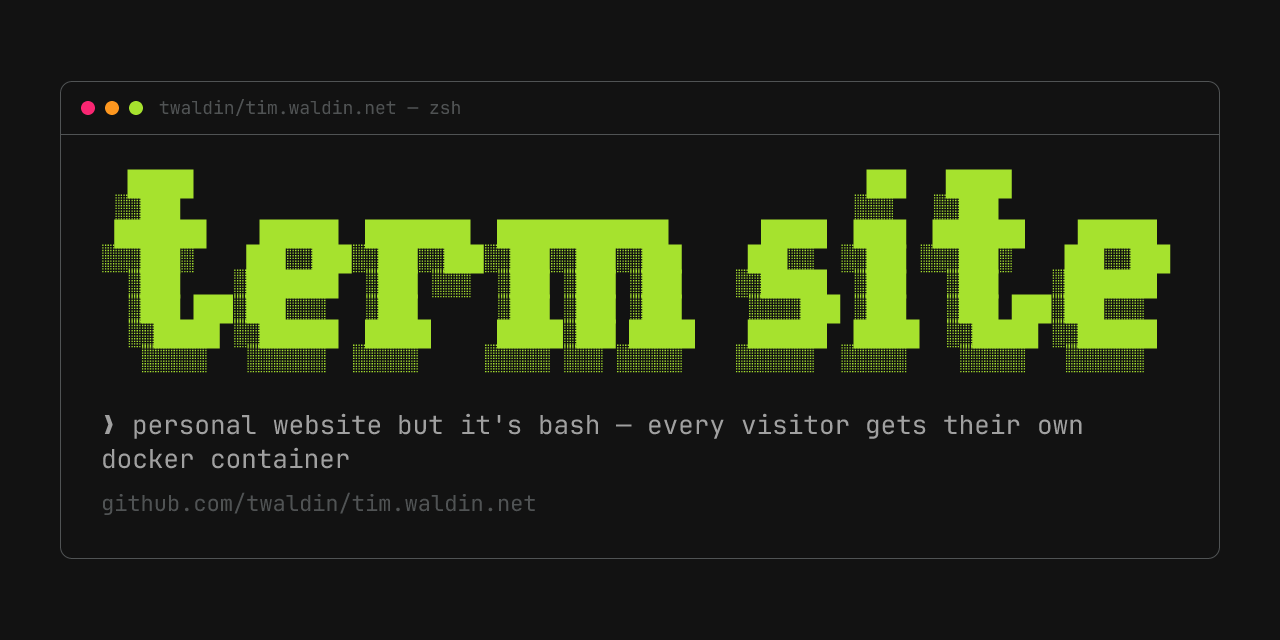
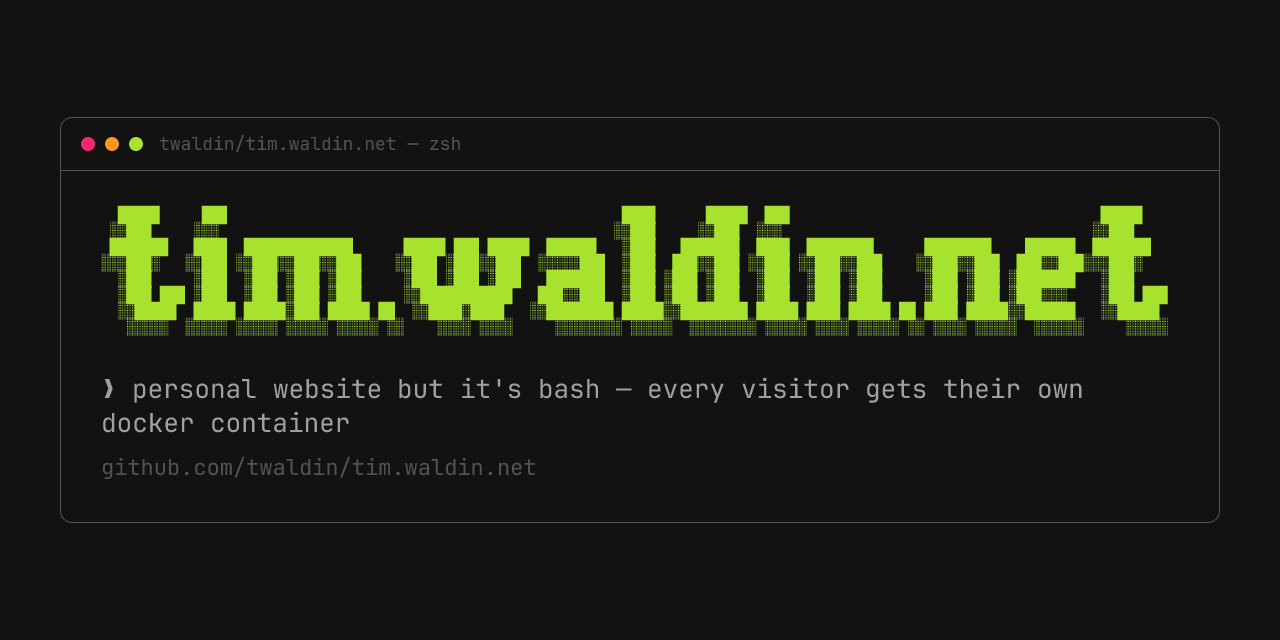
feat(portfolio): add easl and rename the site project (#84)
* feat(portfolio): add easl and rename the site project

* fix(container): retain easl source history for offline nvim

* fix(container): batch missing source blobs and fail closed

diff --git a/frontend/src/lib/__tests__/routes.test.ts b/frontend/src/lib/__tests__/routes.test.ts
@@ -1,5 +1,5 @@
 import { describe, it, expect } from 'vitest';
-import { isValidPath, getPageMetadata } from '../routes';
+import { isValidPath, getPageMetadata, getOgImage } from '../routes';
 
 describe('isValidPath', () => {
   it('/ → true', () => expect(isValidPath('/')).toBe(true));
@@ -17,6 +17,15 @@ describe('isValidPath', () => {
   it('/projects/gepa-ts → true', () => expect(isValidPath('/projects/gepa-ts')).toBe(true));
   it('/also → true', () => expect(isValidPath('/also')).toBe(true));
   it('/projects/also → true', () => expect(isValidPath('/projects/also')).toBe(true));
+  it.each([
+    '/easl', '/t/easl', '/projects/easl',
+    '/tim.waldin.net', '/t/tim.waldin.net', '/projects/tim.waldin.net',
+  ])('%s accepts the project command', path => {
+    expect(isValidPath(path)).toBe(true);
+  });
+  it.each(['/term-site', '/t/term-site', '/projects/term-site'])('%s rejects the removed alias', path => {
+    expect(isValidPath(path)).toBe(false);
+  });
   it('/notacommand → false', () => expect(isValidPath('/notacommand')).toBe(false));
   it('/skyblock-qol → false (removed project)', () => expect(isValidPath('/skyblock-qol')).toBe(false));
   it('/projects/skyblock-qol → false (removed project)', () => expect(isValidPath('/projects/skyblock-qol')).toBe(false));
@@ -68,5 +77,25 @@ describe('getPageMetadata', () => {
   it('/flt returns project metadata', () => {
     const m = getPageMetadata('/flt');
     expect(m.title).toBe('flt — twaldin');
+  });
+});
+
+describe('project metadata and share cards', () => {
+  it.each(['easl', 'tim.waldin.net'])('%s uses its project title and card on every supported path', alias => {
+    for (const path of [`/${alias}`, `/t/${alias}`, `/projects/${alias}`]) {
+      expect(getPageMetadata(path)).toEqual({
+        title: `${alias} — twaldin`,
+        description: `Project: ${alias}.`,
+      });
+      expect(getOgImage(path)).toEqual({
+        url: `/repo-card/${alias}`, width: 1280, height: 640,
+      });
+    }
+  });
+
+  it.each(['/about', '/projects/also', '/projects/term-site'])('%s uses the root card', path => {
+    expect(getOgImage(path)).toEqual({
+      url: '/opengraph-image', width: 1200, height: 630,
+    });
   });
 });

diff --git a/frontend/src/lib/routes.ts b/frontend/src/lib/routes.ts
@@ -1,13 +1,13 @@
 export const KNOWN_COMMANDS = new Set([
   'welcome', 'about', 'contact', 'blog', 'projects', 'resume', 'help',
   'boot', 'theme', 'home',
-  'flt', 'agentelo', 'trade-up-bot', 'term-site',
+  'easl', 'flt', 'agentelo', 'trade-up-bot', 'tim.waldin.net',
   'stm32-games', 'dotfiles', 'hone', 'harness', 'studyspot',
   'tetrio-tui', 'deck', 'hone-a-drone', 'gepa-ts', 'also',
 ]);
 
 export const PROJECT_ALIASES = new Set([
-  'flt', 'agentelo', 'trade-up-bot', 'term-site',
+  'easl', 'flt', 'agentelo', 'trade-up-bot', 'tim.waldin.net',
   'stm32-games', 'dotfiles', 'hone', 'harness', 'studyspot',
   'tetrio-tui', 'deck', 'hone-a-drone', 'gepa-ts', 'also',
 ]);
@@ -46,8 +46,7 @@ export function getOgImage(pathname: string): { url: string; width: number; heig
   else if (p.startsWith('projects/')) p = p.slice('projects/'.length);
   const cmd = p.split('/')[0];
   if (PROJECT_ALIASES.has(cmd) && cmd !== 'also') {
-    const card = cmd === 'term-site' ? 'tim.waldin.net' : cmd;
-    return { url: `/repo-card/${card}`, width: 1280, height: 640 };
+    return { url: `/repo-card/${cmd}`, width: 1280, height: 640 };
   }
   return { url: '/opengraph-image', width: 1200, height: 630 };
 }

diff --git a/frontend/src/lib/websocket.ts b/frontend/src/lib/websocket.ts
@@ -5,8 +5,8 @@ import { io, Socket } from 'socket.io-client';
 // Legacy pretty URL: /projects/<alias> jumps straight into the project
 // (runs the alias command, which cd's + shows the project info page).
 const PROJECT_ALIASES = new Set([
-  'flt', 'agentelo', 'trade-up-bot',
-  'term-site', 'stm32-games', 'dotfiles', 'hone', 'harness', 'studyspot',
+  'easl', 'flt', 'agentelo', 'trade-up-bot',
+  'tim.waldin.net', 'stm32-games', 'dotfiles', 'hone', 'harness', 'studyspot',
   'tetrio-tui', 'deck', 'hone-a-drone', 'gepa-ts', 'also',
 ]);
 
@@ -20,11 +20,12 @@ const NAVIGATION_COMMANDS: Record<string, true> = {
   contact: true,
   about: true,
   gui: true,
+  easl: true,
   flt: true,
   agentelo: true,
   hone: true,
   harness: true,
-  'term-site': true,
+  'tim.waldin.net': true,
   'trade-up-bot': true,
   studyspot: true,
   'stm32-games': true,

diff --git a/frontend/src/lib/__tests__/websocket-allowlist.test.ts b/frontend/src/lib/__tests__/websocket-allowlist.test.ts
@@ -56,6 +56,23 @@ describe('URL command allowlist', () => {
     expectInitCommand('about');
   });
 
+  it.each([
+    ['/easl', 'easl'],
+    ['/t/easl', 'easl'],
+    ['/projects/easl', 'easl'],
+    ['/tim.waldin.net', 'tim.waldin.net'],
+    ['/t/tim.waldin.net', 'tim.waldin.net'],
+    ['/projects/tim.waldin.net', 'tim.waldin.net'],
+  ])('launches %s through the handshake', (path, command) => {
+    connectFrom(path);
+    expectInitCommand(command);
+  });
+
+  it.each(['/term-site', '/t/term-site', '/projects/term-site'])('rejects the removed command at %s', path => {
+    connectFrom(path);
+    expectInitCommand(undefined);
+  });
+
   it('rejects command-prefix bypasses of the old denylist', () => {
     connectFrom('/command%20rm%20-rf%20%2F');
     expectInitCommand(undefined);

diff --git a/backend/test/pageviews.test.js b/backend/test/pageviews.test.js
@@ -68,7 +68,7 @@ ok('repeat views increment the count', () => {
 });
 
 ok('encoded path chars (%20, dots, dashes) are accepted', () => {
-  const res = beacon('/projects/term-site%20v2.0_beta', '203.0.113.1');
+  const res = beacon('/projects/tim.waldin.net%20v2.0_beta', '203.0.113.1');
   assert.strictEqual(res._statusCode, 204);
 });
 

diff --git a/frontend/next.config.ts b/frontend/next.config.ts
@@ -72,6 +72,11 @@ const nextConfig: NextConfig = {
         destination: "/resume.pdf",
         permanent: true,
       },
+      {
+        source: "/projects/term-site",
+        destination: "/projects/tim.waldin.net",
+        permanent: true,
+      },
     ];
   },
 };

diff --git a/container/CLAUDE.md b/container/CLAUDE.md
@@ -29,8 +29,8 @@ container/
     ├── themes.txt          # 464 theme names, written by scripts/generate-themes-lib.py with frontend/src/config/themes.ts
     ├── projects.sh         # Project cards (2-up grid on wide terminals); sources also.sh for the dump at the bottom
     ├── also.sh             # Hackathon / archived / fork one-liners (print_also_list when sourced, full page when run)
-    ├── flt.sh, agentelo.sh, hone.sh, harness.sh, stm32-games.sh,
-    │   term-site.sh, trade-up-bot.sh, studyspot.sh, dotfiles.sh   # Pages for cloned repos: blurb + git_activity
+    ├── easl.sh, flt.sh, agentelo.sh, hone.sh, harness.sh, stm32-games.sh,
+    │   tim.waldin.net.sh, trade-up-bot.sh, studyspot.sh, dotfiles.sh # Cloned repo pages with git_activity
     ├── tetrio-tui.sh, deck.sh, hone-a-drone.sh, gepa-ts.sh        # Pages for placeholder dirs: blurb only
     ├── about.sh            # About me
     ├── contact.sh          # Email + socials via OSC 8 hyperlinks
@@ -46,7 +46,8 @@ container/
 - **Removed installs**: mdcat/glow (blog renders as HTML), duplicate apt vim/neovim and nano (nightly nvim remains), bat (cat remains), wget, apt-transport-https/software-properties-common (the base already enables universe), and Linux Nerd Fonts/fontconfig (the browser supplies the terminal font; figlet fonts remain). nvm is unnecessary with visitor-owned startup: no Node runtime is installed.
 - **Editor**: bob v4.1.6 release archives, pinned and SHA-256-verified per architecture, install nightly nvim while preserving the dotfiles nvim config and baked-in plugins for the network-isolated sandbox. `vi` and `vim` alias nvim in both shells. The headless plugin warmup tolerates optional tool-download errors; validate actual offline editor startup after changing dependencies. `typst-preview` is stripped because a sandbox cannot open a system browser.
 - **Prompt**: Oh My Posh v31.3.0's pinned, SHA-256-verified architecture-specific binary is installed to `~/.local/bin`, without its unused bundled themes. `zshrc` initializes it once with `~/.dotfiles/zsh/pure-modified.omp.json`, whose username template is replaced with `tim.waldin.net`. The dotfiles repository remains available for browsing and nvim configuration, but its workstation zsh startup is not sourced.
-- **Repos** (one `RUN`, with an optional `github_token` build secret exported as `GITHUB_TOKEN` to lift bob's unauthenticated GitHub API rate limit): `twaldin/dotfiles` → `~/.dotfiles` (`~/.config/nvim` symlinks to its `nvim/`), and `~/projects/{flt,agentelo,stm32-games,term-site,trade-up-bot,hone,harness,studyspot}` cloned from `github.com/twaldin/<name>`. Every clone is shallow (`--depth 20 --single-branch`; project pages show five commits). `hone` is also a blobless sparse checkout that leaves out `capsules/*/*/` (~3.3 GB of benchmark toolchains and fixtures) but keeps each capsule's top-level config and manifest files; without that, the image grew past 6 GB. `~/projects/dotfiles` is a symlink to `~/.dotfiles`; `tetrio-tui`, `deck`, `hone-a-drone`, `gepa-ts` are empty `mkdir -p` placeholders, which is why their pages skip `git_activity`. Each project directory also gets a `<name>.sh` symlink (absolute target) to its script, plus `~/projects/also.sh`.
+- **Repos** (one `RUN`, with an optional `github_token` build secret exported as `GITHUB_TOKEN` to lift bob's unauthenticated GitHub API rate limit): `twaldin/dotfiles` → `~/.dotfiles` (`~/.config/nvim` symlinks to its `nvim/`), and `~/projects/{easl,flt,agentelo,stm32-games,tim.waldin.net,trade-up-bot,hone,harness,studyspot}` cloned directly from `github.com/twaldin/<name>`. Every clone is shallow (`--depth 20 --single-branch`; project pages show five commits). `easl` uses a blobless sparse checkout to keep binary assets out of the visitor image. It excludes `docs/media/`, browser-quality PNG fixtures, bundled TTF fonts, and `.github/social-card.png`. Its source remains available to browse with `nvim .`. `hone` is also a blobless sparse checkout that leaves out `capsules/*/*/` (~3.3 GB of benchmark toolchains and fixtures) but keeps each capsule's top-level config and manifest files; without that, the image grew past 6 GB. `~/projects/dotfiles` is a symlink to `~/.dotfiles`; `tetrio-tui`, `deck`, `hone-a-drone`, `gepa-ts` are empty `mkdir -p` placeholders, which is why their pages skip `git_activity`. Each project directory also gets a `<name>.sh` symlink (absolute target) to its script, plus `~/projects/also.sh`.
+- **Offline easl history**: the build fetches source blobs from all 20 shallow commits, but not the excluded binaries. nvim's current-line git blame can then read earlier versions without contacting GitHub from the network-isolated sandbox.
 - **sudo**: passwordless for `portfolio` (`/etc/sudoers.d/portfolio`). Safe because the backend creates containers with `CapDrop: ALL` (only `SETUID`/`SETGID` added back), no network, and memory/pid limits — `sudo rm -rf /` works as a demo but can't escape.
 - **Home extras**: `~/README.md` describes supported tools; `~/portfolio/`, `~/workspace/`, `~/tmp/` are writable.
 - **Entrypoint**: `secure-shell.sh` sets the visitor environment and execs zsh. Image `PATH` exposes bob's nvim proxy, `~/.local/bin` and `~/scripts` to both bash and zsh; `EDITOR=nvim`.
@@ -63,18 +64,20 @@ The Dockerfile installs this directory's `zshrc`, rather than importing workstat
 
 ### Aliases
 
-The 25 portfolio navigation aliases live in `shell-aliases.sh`; both interactive shells source the same file. It also defines `vi`/`vim` → nvim and `ll`/`la` → ls. Every script path below is `/home/portfolio/scripts/<name>.sh`.
+The 26 portfolio navigation aliases live in `shell-aliases.sh`; both interactive shells source the same file. It also defines `vi`/`vim` → nvim and `ll`/`la` → ls. Every script path below is `/home/portfolio/scripts/<name>.sh`.
 
 | Alias | Runs |
 |---|---|
 | `home`, `welcome`, `boot` | `cd ~ && boot.sh` — all three replay the intro |
 | `about`, `contact`, `resume` | `cd ~ && <name>.sh` |
 | `projects`, `also` | `cd ~/projects && <name>.sh` |
-| `flt`, `agentelo`, `stm32-games`, `term-site`, `trade-up-bot`, `hone`, `harness`, `studyspot`, `tetrio-tui`, `deck`, `hone-a-drone`, `gepa-ts` | `cd ~/projects/<name> && <name>.sh` |
+| `easl`, `flt`, `agentelo`, `stm32-games`, `tim.waldin.net`, `trade-up-bot`, `hone`, `harness`, `studyspot`, `tetrio-tui`, `deck`, `hone-a-drone`, `gepa-ts` | `cd ~/projects/<name> && <name>.sh` |
 | `dotfiles` | `cd ~/.dotfiles && dotfiles.sh` |
 | `theme`, `help`, `blog`, `gui` | `<name>.sh` — no `cd` |
 
 Adding a command means updating `shell-aliases.sh` and `help.sh`, plus — if a URL should reach it — `NAVIGATION_COMMANDS` in `frontend/src/lib/websocket.ts` and `KNOWN_COMMANDS` in `frontend/src/lib/routes.ts`. A project alias also needs both frontend `PROJECT_ALIASES` sets and the `zshrc` preexec mapping. Bash has navigation parity, but only zsh has the browser URL hook.
+
+`projects.sh` lists `easl` first. Its page links to `https://easl.sh`, the source repository, and the launch post. Its copy comes from the easl README and `blog/posts/2026-10-04-easl.md`.
 
 ## Boot intro (animations)
 
@@ -119,5 +122,4 @@ URL conventions for OSC 9999: page scripts push their own command name (`about`,
 
 ## Things to watch
 
-- The `term-site` clone is guarded with `(git clone … || mkdir -p term-site)` from when the repo was private. `twaldin/term-site` now redirects to the public `twaldin/tim.waldin.net`, so the clone succeeds and the visitor's `term-site` page shows live git activity; the guard is dormant.
 - `help.sh` lists four animations for `boot <name>`; `ANIMATIONS` in `boot.sh` has five (`font-cycle` is missing from help).

diff --git a/frontend/CLAUDE.md b/frontend/CLAUDE.md
@@ -58,7 +58,7 @@ Two frontend gates, then a backend re-check. The frontend has no denylist (the c
 2. **Command gate** — `pathToCommand()` (`lib/websocket.ts`) turns `window.location.pathname` into the `initCommand` sent in the Socket.IO handshake:
    - `/` → `boot` (intro animation, then welcome — see container/CLAUDE.md).
    - `/t/<cmd>` → drop the prefix and keep going (forces the live terminal; used by the blog pages and the header).
-   - `/projects/<alias>` → `<alias>` when it is in `PROJECT_ALIASES` (legacy pretty URL).
+   - `/projects/<alias>` → `<alias>` when it is in `PROJECT_ALIASES`. Project lists start with `easl`; the site command is `tim.waldin.net`, including its dots. Both aliases also work at `/<alias>` and `/t/<alias>`.
    - Otherwise: URL-decode, cap at 200 chars, require `SAFE_CMD_RE` (`/^[A-Za-z0-9 ._/+=:,@-]+$/`), and if the string has no whitespace but contains `/`, turn the first `/` into a space (`/blog/foo` → `blog foo`). The result must then be a `NAVIGATION_COMMANDS` key or match `/^blog [A-Za-z0-9._-]+$/`. Anything else → `undefined`.
 3. **Backend** — `_maybeRunInitCommand` (`backend/session.js`) types `boot` when `initCommand` is falsy, so a path that passes the render gate but not `pathToCommand()` (e.g. `/theme`) just boots. `_autoType` re-checks the character set and length as defence-in-depth and also falls back to `boot`.
 
@@ -131,8 +131,9 @@ A post linking `https://tim.waldin.net/x` plays the terminal inside the post: X 
 ## Static pages, share cards, SEO
 
 - `/gui` (`app/gui/page.tsx`) renders `content/gui.md` through `react-markdown`, reading it with `readFileSync` from `process.cwd()`; `Dockerfile.production` copies `content/` alongside `blog-posts/` so the file is present wherever Next renders the page.
-- Share cards are `next/og` `ImageResponse`s that read `public/fonts/JetBrainsMonoNerdFontMono-Regular.ttf` from disk: `app/opengraph-image.tsx` (root, baked figlet), `app/blog/[slug]/opengraph-image.tsx` (per post), `app/x/twitter-image.tsx` (square 1200×1200 player card), `app/repo-card/[name]/route.tsx` (1280×640 per repo from `cards.json`, `force-static`; add repos with `scripts/add-repo-card.sh`). The dynamic share-card routes enumerate their valid parameters and reject unknown blog slugs or repository names with a 404 before reading fonts or constructing an `ImageResponse`. `getOgImage()` in `lib/routes.ts` picks the repo card for project aliases (except `also`, which has no card; `term-site` maps to the `tim.waldin.net` card) and the root card otherwise.
+- Share cards are `next/og` `ImageResponse`s that read `public/fonts/JetBrainsMonoNerdFontMono-Regular.ttf` from disk: `app/opengraph-image.tsx` (root, baked figlet), `app/blog/[slug]/opengraph-image.tsx` (per post), `app/x/twitter-image.tsx` (square 1200×1200 player card), `app/repo-card/[name]/route.tsx` (1280×640 per repo from `cards.json`, `force-static`; add repos with `scripts/add-repo-card.sh`). The dynamic share-card routes enumerate their valid parameters and reject unknown blog slugs or repository names with a 404 before reading fonts or constructing an `ImageResponse`. `getOgImage()` selects `/repo-card/<alias>` directly for project aliases, including `easl` and `tim.waldin.net`. `also` has no card and uses the root card, as do non-project pages.
 - `app/sitemap.ts` lists `/`, `/gui`, `/blog`, every post, and `/projects/<alias>`; `app/robots.ts` allows everything and points at it. `getPageMetadata()` supplies titles/descriptions for `layout.tsx` and the catch-all.
+- `next.config.ts` permanently redirects the former site project URL to `/projects/tim.waldin.net`, alongside the existing resume redirect. The former command is not allowlisted. Theme persistence deliberately keeps its existing `term-site:*` storage keys so saved preferences survive the rename.
 - `next.config.ts`: `output: "standalone"` (what the Dockerfile ships), no `X-Powered-By`, a permanent `/resume.html` → `/resume.pdf` redirect (nginx has the same rule), and production-only response headers. The static CSP permits only same-origin scripts, styles, fonts, connections, frames, and forms (plus `data:`/`blob:` images, and `wss://tim.waldin.net` spelled out because Safari < 16 does not match same-origin `wss:` against `'self'`); inline scripts/styles remain enabled for Next bootstrap, the anti-FOUC script, and React style attributes. The Permissions Policy disables unused sensor, media-capture, geolocation, payment, and USB features, allows autoplay and fullscreen for the site's own origin only (blog videos play inline and can go fullscreen), and leaves clipboard access available for the terminal.
 - The `/x` route overrides only the CSP's `frame-ancestors`; see `/x` embed.
 
@@ -144,6 +145,7 @@ A post linking `https://tim.waldin.net/x` plays the terminal inside the post: X 
 
 - `pnpm dev` → Next 15 with Turbopack on port 3000 (`next dev --turbopack --port 3000`); `pnpm build` / `pnpm start` for production; `pnpm lint` → `next lint`.
 - `pnpm test` → `vitest run` (`vitest.config.ts`: node environment, `@` → `src`). Suites in `src/lib/__tests__/`: `websocket-allowlist` (asserts `pathToCommand()` through the handshake `auth`), `websocket-session` (session ids with throwing storage, embed handshake), `embed-machine`, `embed-tour`, `terminal-sizing`, `routes`, `safe-url`, `theme-manager`, `mobile-viewport`.
+- `routes` and `websocket-allowlist` cover both current project commands and rejection of the removed command. Theme-storage keys and their existing tests stay unchanged.
 - Local blog content: `ln -s ../container/blog/posts frontend/blog-posts` (gitignored).
 - Production image: `frontend/Dockerfile.production`, built from the repo root (it copies `container/blog/posts/`). Standalone server (`node server.js`) as the non-root `nextjs` user; `.next/static`, `public/`, `blog-posts/`, and `content/` are copied in explicitly because standalone tracing omits them. The compose service runs `read_only: true` with a 50 MB `tmpfs` at `/tmp` (`docker-compose.yml`).
 

diff --git a/README.md b/README.md
@@ -1,6 +1,6 @@
-# Terminal Portfolio
+# tim.waldin.net
 
-<img src=".github/social-card.png" alt="term site" width="100%" />
+<img src=".github/social-card.png" alt="tim.waldin.net" width="100%" />
 
 My portfolio website that looks like a terminal. Users get an xterm.js terminal in their browser that connects to isolated Docker containers where they can run commands, explore my projects, view my resume, etc.
 
@@ -28,7 +28,7 @@ Browser (xterm.js) → Nginx (reverse proxy, SSL, rate limiting)
 ## Project Structure
 
 ```
-term-site/
+tim.waldin.net/
 ├── frontend/                  # Next.js app
 │   ├── src/app/               # Routes: terminal page for / and every command URL, blog/, gui/, repo-card/, OG image, sitemap
 │   ├── src/components/        # Terminal.tsx (xterm.js, OSC handlers, font sizing, clipboard)
@@ -121,7 +121,7 @@ Custom portfolio navigation:
 - `resume` - View my resume
 - `projects` - Explore all projects
 - `blog` - Posts I've written; `blog <slug>` opens a post
-- `<project>` - Jump straight to a project page: `harness`, `hone`, `flt`, `agentelo`, `term-site`, `trade-up-bot`, `studyspot`, `stm32-games`, `dotfiles`, `tetrio-tui`, `deck`, `hone-a-drone`, `gepa-ts`, `also`
+- `<project>` - Jump straight to a project page: `easl`, `harness`, `hone`, `flt`, `agentelo`, `tim.waldin.net`, `trade-up-bot`, `studyspot`, `stm32-games`, `dotfiles`, `tetrio-tui`, `deck`, `hone-a-drone`, `gepa-ts`, `also`
 - `theme` - Re-theme the site with a live fzf preview over 464 schemes; `theme <name>`, `theme dark|light`, `theme reset`
 - `boot` - Replay the intro animation; `boot <name>` picks one
 - `gui` - The point-and-click version, for mouse users
@@ -129,6 +129,8 @@ Custom portfolio navigation:
 - `home` / `welcome` - Back to the main page (same as `boot`)
 
 Plus tools for exploring the sandbox: `ls`, `cd`, `cat`, `nvim` (also `vi`/`vim`), `git`, `grep`, `rg`, `fzf`, `tree`, and `htop`. Bash and zsh share the portfolio aliases; zsh is the default and provides browser URL synchronization.
+
+Run `nvim ~/projects/easl` to browse easl's source in the sandbox. Its sparse checkout omits binary media, screenshots, and fonts. This site's source lives in `~/projects/tim.waldin.net`; the `tim.waldin.net` command opens its project page.
 
 ## Features
 

diff --git a/frontend/content/gui.md b/frontend/content/gui.md
@@ -15,6 +15,20 @@ for now the interesting work is at lindy.
 
 also shipped: [harness](https://github.com/twaldin/harness) · [hone](https://github.com/twaldin/hone) · [flt](https://github.com/twaldin/flt) · [agentelo](https://github.com/twaldin/agentelo)
 
+## projects
+
+### [easl](/projects/easl)
+
+a native mac app for coding agents. real terminals, code tiles, call graphs, browsers, notes, and html pages share one infinite board. hyper-click a shape, page element, or note to send it with your next prompt. free and MIT, for macOS 14 or later on apple silicon.
+
+[easl.sh](https://easl.sh) · [source](https://github.com/twaldin/easl) · [why i built it](/blog/2026-10-04-easl)
+
+### [tim.waldin.net](/projects/tim.waldin.net)
+
+this site. every visitor gets their own docker container and a live terminal to explore projects, the blog, and source code.
+
+[source](https://github.com/twaldin/tim.waldin.net) · [enter the terminal](/)
+
 ## links
 
 [resume (pdf)](/resume.pdf) · [blog](/blog) · [github.com/twaldin](https://github.com/twaldin) · [x.com/twaldin](https://x.com/twaldin) · timothy@waldin.net

diff --git a/CLAUDE.md b/CLAUDE.md
@@ -1,4 +1,4 @@
-# tim.waldin.net (term-site)
+# tim.waldin.net
 
 Interactive terminal-themed portfolio at [tim.waldin.net](https://tim.waldin.net). Visitors land on a web-based xterm.js terminal that connects via Socket.IO to a Node.js backend, which leases them an isolated Ubuntu Docker container running a custom zsh shell with portfolio scripts (figlet ASCII art, project pages, blog, resume).
 
@@ -98,4 +98,4 @@ The audit log (`events.jsonl`, with daily pageview rollups appended to it) lives
 ## Conventions
 
 - Every directory with a `CLAUDE.md` also has an `AGENTS.md` symlink → `CLAUDE.md`. Treat `CLAUDE.md` as canonical; edit only `CLAUDE.md`, never `AGENTS.md`.
-- One-off agent docs (plans, diagnoses, handoffs, content drafts) never get committed — they live untracked in `~/notes/term-site/` on the dev machine.
+- One-off agent docs (plans, diagnoses, handoffs, content drafts) never get committed — they live untracked in `~/notes/tim.waldin.net/` on the dev machine.
